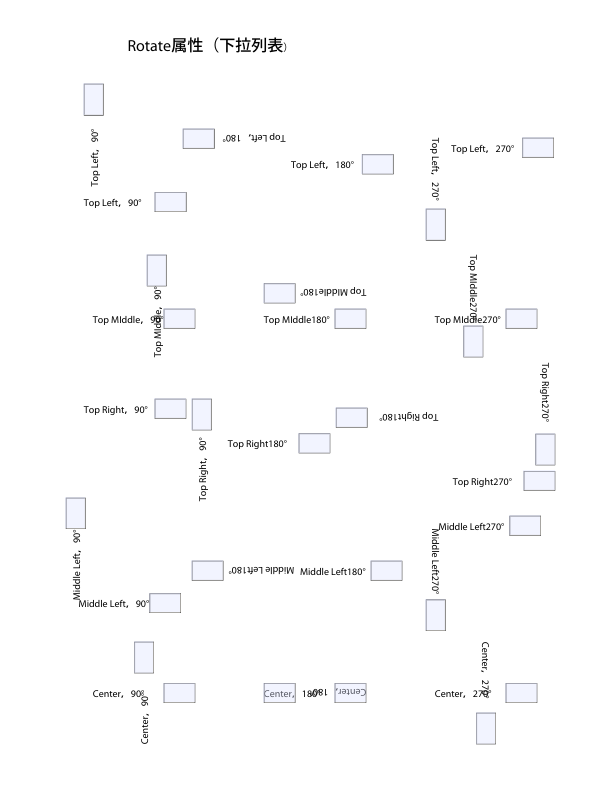
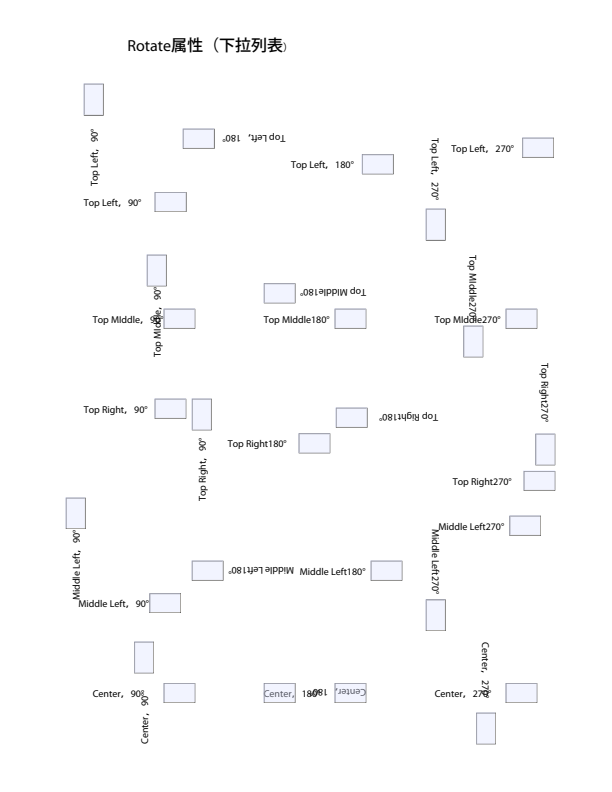
[Skia] Fix the issue that texts are rendered narrower than expected.
When Skia/SkiaPaths is enabled, render a substituted glyph using its
path instead of using CFX_SkiaDeviceDriver when its width defined in
the PDF is narrower than the default glyph width.

This CL also update the expectations of the embedder tests, pixel tests
and corpus tests which are affected by this change.

Bug: pdfium:1752
Commit-Queue: Nigi <nigi@chromium.org>

diff --git a/core/fxge/skia/fx_skia_device.cpp b/core/fxge/skia/fx_skia_device.cpp
@@ -31,6 +31,7 @@
 #include "core/fxge/cfx_graphstatedata.h"
 #include "core/fxge/cfx_path.h"
 #include "core/fxge/cfx_renderdevice.h"
+#include "core/fxge/cfx_substfont.h"
 #include "core/fxge/cfx_textrenderoptions.h"
 #include "core/fxge/dib/cfx_bitmapcomposer.h"
 #include "core/fxge/dib/cfx_dibitmap.h"
@@ -1039,17 +1040,7 @@ class SkiaState {
       skCanvas->drawTextBlob(blob, 0, 0, skPaint);
     } else {
       const SkTDArray<SkPoint>& positions = m_charDetails.GetPositions();
-      const SkTDArray<uint32_t>& widths = m_charDetails.GetFontCharWidths();
       for (int i = 0; i < m_charDetails.Count(); ++i) {
-        uint32_t font_glyph_width =
-            m_pFont ? m_pFont->GetGlyphWidth(glyphs[i]) : 0;
-        uint32_t pdf_glyph_width = widths[i];
-        if (font_glyph_width && pdf_glyph_width &&
-            font_glyph_width > pdf_glyph_width) {
-          font.setScaleX(SkIntToScalar(pdf_glyph_width) / font_glyph_width);
-        } else {
-          font.setScaleX(SkIntToScalar(1));
-        }
         sk_sp<SkTextBlob> blob = SkTextBlob::MakeFromText(
             &glyphs[i], sizeof(glyphs[i]), font, SkTextEncoding::kGlyphID);
         skCanvas->drawTextBlob(blob, positions[i].fX, positions[i].fY, skPaint);
@@ -1723,6 +1714,20 @@ bool CFX_SkiaDeviceDriver::DrawDeviceText(
     float font_size,
     uint32_t color,
     const CFX_TextRenderOptions& options) {
+  // If a glyph's default width is larger than its width defined in the PDF,
+  // draw the glyph with path since it can be scaled to avoid overlapping with
+  // the adjacent glyphs (if there are any). Otherwise, use the device driver
+  // to render the glyph without any adjustments.
+  const CFX_SubstFont* subst_font = pFont->GetSubstFont();
+  const int subst_font_weight =
+      (subst_font && subst_font->m_bFlagMM) ? subst_font->m_Weight : 0;
+  for (const TextCharPos& cp : pCharPos) {
+    const int glyph_width = pFont->GetGlyphWidth(
+        cp.m_GlyphIndex, cp.m_FontCharWidth, subst_font_weight);
+    if (cp.m_FontCharWidth < glyph_width)
+      return false;
+  }
+
   int nChars = fxcrt::CollectionSize<int>(pCharPos);
   if (m_pCache->DrawText(nChars, pCharPos.data(), pFont, mtObject2Device,
                          font_size, color, options)) {
@@ -1843,16 +1848,6 @@ bool CFX_SkiaDeviceDriver::DrawDeviceText(
     }
   } else {
     for (int index = 0; index < nChars; ++index) {
-      const TextCharPos& cp = pCharPos[index];
-      uint32_t font_glyph_width =
-          pFont ? pFont->GetGlyphWidth(cp.m_GlyphIndex) : 0;
-      uint32_t pdf_glyph_width = cp.m_FontCharWidth;
-      if (font_glyph_width && pdf_glyph_width &&
-          font_glyph_width > pdf_glyph_width) {
-        font.setScaleX(SkIntToScalar(pdf_glyph_width) / font_glyph_width);
-      } else {
-        font.setScaleX(SkIntToScalar(1));
-      }
       auto blob =
           SkTextBlob::MakeFromText(&glyphs[index], sizeof(glyphs[index]), font,
                                    SkTextEncoding::kGlyphID);

diff --git a/fpdfsdk/fpdf_annot_embeddertest.cpp b/fpdfsdk/fpdf_annot_embeddertest.cpp
@@ -543,12 +543,10 @@ TEST_F(FPDFAnnotEmbedderTest, ExtractInkMultiple) {
     EXPECT_EQ(681.535034f, rect.top);
   }
   {
-#if defined(_SKIA_SUPPORT_) && BUILDFLAG(IS_APPLE)
+#if defined(_SKIA_SUPPORT_)
     static constexpr char kExpectedHash[] = "fad91b9c968fe8019a774f5e2419b8fc";
-#elif defined(_SKIA_SUPPORT_PATHS_) && BUILDFLAG(IS_APPLE)
+#elif defined(_SKIA_SUPPORT_PATHS_)
     static constexpr char kExpectedHash[] = "acddfe688a117ead56af7b249a2cf8a1";
-#elif defined(_SKIA_SUPPORT_) || defined(_SKIA_SUPPORT_PATHS_)
-    static constexpr char kExpectedHash[] = "1fb0dd8dd5f0b9bb8d076e48eb59296d";
 #elif BUILDFLAG(IS_WIN)
     static constexpr char kExpectedHash[] = "49d0a81c636531a337429325273d0508";
 #else
@@ -770,12 +768,10 @@ TEST_F(FPDFAnnotEmbedderTest, AddAndSaveUnderlineAnnotation) {
   UnloadPage(page);
 
   // Open the saved document.
-#if defined(_SKIA_SUPPORT_) && BUILDFLAG(IS_APPLE)
+#if defined(_SKIA_SUPPORT_)
   static const char kChecksum[] = "899387ae792390cd0d83cf7e2bbebfb5";
-#elif defined(_SKIA_SUPPORT_PATHS_) && BUILDFLAG(IS_APPLE)
+#elif defined(_SKIA_SUPPORT_PATHS_)
   static const char kChecksum[] = "e40e235ee35f47ff28dda009aaaf36df";
-#elif defined(_SKIA_SUPPORT_) || defined(_SKIA_SUPPORT_PATHS_)
-  static const char kChecksum[] = "798fa41303381c9ba6d99092f5cd4d2b";
 #else
   static const char kChecksum[] = "dba153419f67b7c0c0e3d22d3e8910d5";
 #endif
@@ -899,17 +895,12 @@ TEST_F(FPDFAnnotEmbedderTest, GetAndSetQuadPoints) {
 #endif
 TEST_F(FPDFAnnotEmbedderTest, MAYBE_ModifyRectQuadpointsWithAP) {
 #if defined(_SKIA_SUPPORT_) || defined(_SKIA_SUPPORT_PATHS_)
-  static const char kMd5Original[] = "00e70eb543c2a6e8f8aafb4ee951d9bf";
+  static const char kMd5Original[] = "127c2d3b4452555e3317827b0dbbb6a0";
   static const char kMd5ModifiedHighlight[] =
-      "7638c4a8fe4aabbf8704e198f49b3198";
-  static const char kMd5ModifiedSquare[] = "54f507af6af63de877b9cafdab1bbdaa";
+      "6ffe732be6f80540b60921c4803b590a";
+  static const char kMd5ModifiedSquare[] = "9ecbeea7f54abea298b53ce79d301f4a";
 #else
-#if BUILDFLAG(IS_WIN)
-  static const char kMd5Original[] = "0e27376094f11490f74c65f3dc3a42c5";
-  static const char kMd5ModifiedHighlight[] =
-      "66f3caef3a7d488a4fa1ad37fc06310e";
-  static const char kMd5ModifiedSquare[] = "a456dad0bc6801ee2d6408a4394af563";
-#elif BUILDFLAG(IS_APPLE)
+#if BUILDFLAG(IS_APPLE)
   static const char kMd5Original[] = "fc59468d154f397fd298c69f47ef565a";
   static const char kMd5ModifiedHighlight[] =
       "e64bf648f6e9354d1f3eedb47a2c9498";
@@ -919,7 +910,7 @@ TEST_F(FPDFAnnotEmbedderTest, MAYBE_ModifyRectQuadpointsWithAP) {
   static const char kMd5ModifiedHighlight[] =
       "66f3caef3a7d488a4fa1ad37fc06310e";
   static const char kMd5ModifiedSquare[] = "a456dad0bc6801ee2d6408a4394af563";
-#endif
+#endif  // BUILDFLAG(IS_APPLE)
 #endif  // defined(_SKIA_SUPPORT_) || defined(_SKIA_SUPPORT_PATHS_)
 
   // Open a file with four annotations and load its first page.

diff --git a/fpdfsdk/fpdf_edit_embeddertest.cpp b/fpdfsdk/fpdf_edit_embeddertest.cpp
@@ -64,7 +64,7 @@ const char kFirstRemovedChecksum[] = "e1477dc3b5b3b9c560814c4d1135a02b";
 const wchar_t kLoadedFontText[] = L"I am testing my loaded font, WEE.";
 
 #if defined(_SKIA_SUPPORT_) || defined(_SKIA_SUPPORT_PATHS_)
-const char kLoadedFontTextChecksum[] = "fc2334c350cbd0d2ae6076689da09741";
+const char kLoadedFontTextChecksum[] = "d58570cc045dfb818b92cbabbd1a364c";
 #elif BUILDFLAG(IS_APPLE)
 const char kLoadedFontTextChecksum[] = "0f3e4a7d71f9e7eb8a1a0d69403b9848";
 #else
@@ -260,15 +260,7 @@ TEST_F(FPDFEditEmbedderTest, EmbedNotoSansSCFont) {
   FPDFPage_InsertObject(page.get(), text_object);
   EXPECT_TRUE(FPDFPage_GenerateContent(page.get()));
 
-#if defined(_SKIA_SUPPORT_) || defined(_SKIA_SUPPORT_PATHS_)
-#if BUILDFLAG(IS_APPLE)
   const char kChecksum[] = "9a31fb87d1c6d2346bba22d1196041cd";
-#else   // BUILDFLAG(IS_APPLE)
-  const char kChecksum[] = "5bb65e15fc0a685934cd5006dec08a76";
-#endif  // BUILDFLAG(IS_APPLE)
-#else   // defined(_SKIA_SUPPORT_) || defined(_SKIA_SUPPORT_PATHS_)
-  const char kChecksum[] = "9a31fb87d1c6d2346bba22d1196041cd";
-#endif  // defined(_SKIA_SUPPORT_) || defined(_SKIA_SUPPORT_PATHS_)
   ScopedFPDFBitmap page_bitmap = RenderPage(page.get());
   CompareBitmap(page_bitmap.get(), 400, 400, kChecksum);
 
@@ -305,15 +297,7 @@ TEST_F(FPDFEditEmbedderTest, EmbedNotoSansSCFontWithCharcodes) {
   FPDFPage_InsertObject(page.get(), text_object);
   EXPECT_TRUE(FPDFPage_GenerateContent(page.get()));
 
-#if defined(_SKIA_SUPPORT_) || defined(_SKIA_SUPPORT_PATHS_)
-#if BUILDFLAG(IS_APPLE)
   const char kChecksum[] = "9a31fb87d1c6d2346bba22d1196041cd";
-#else   // BUILDFLAG(IS_APPLE)
-  const char kChecksum[] = "5bb65e15fc0a685934cd5006dec08a76";
-#endif  // BUILDFLAG(IS_APPLE)
-#else   // defined(_SKIA_SUPPORT_) || defined(_SKIA_SUPPORT_PATHS_)
-  const char kChecksum[] = "9a31fb87d1c6d2346bba22d1196041cd";
-#endif  // defined(_SKIA_SUPPORT_) || defined(_SKIA_SUPPORT_PATHS_)
   ScopedFPDFBitmap page_bitmap = RenderPage(page.get());
   CompareBitmap(page_bitmap.get(), 400, 400, kChecksum);
 
@@ -3008,7 +2992,7 @@ TEST_F(FPDFEditEmbedderTest, AddTrueTypeFontText) {
   }
   ScopedFPDFBitmap page_bitmap2 = RenderPage(page);
 #if defined(_SKIA_SUPPORT_) || defined(_SKIA_SUPPORT_PATHS_)
-  const char kInsertTrueTypeChecksum[] = "4f9a6c7752ac7d4e4c731260fdb5af15";
+  const char kInsertTrueTypeChecksum[] = "683f4a385a891494100192cb338b11f0";
 #elif BUILDFLAG(IS_APPLE)
   const char kInsertTrueTypeChecksum[] = "c7e2271a7f30e5b919a13ead47cea105";
 #else
@@ -3084,11 +3068,7 @@ TEST_F(FPDFEditEmbedderTest, AddCIDFontText) {
   }
 
   // Check that the text renders properly.
-#if defined(_SKIA_SUPPORT_) || defined(_SKIA_SUPPORT_PATHS_)
-  static constexpr char md5[] = "2e174d17de96a760d42ca3a06acbf36a";
-#else
   static constexpr char md5[] = "84d31d11b76845423a2cfc1879c0fbb9";
-#endif
   {
     ScopedFPDFBitmap page_bitmap = RenderPage(page);
     CompareBitmap(page_bitmap.get(), 612, 792, md5);

diff --git a/core/fpdfapi/render/fpdf_progressive_render_embeddertest.cpp b/core/fpdfapi/render/fpdf_progressive_render_embeddertest.cpp
@@ -384,7 +384,7 @@ TEST_F(FPDFProgressiveRenderEmbedderTest,
 // Normal blend mode.
 #if defined(_SKIA_SUPPORT_) || defined(_SKIA_SUPPORT_PATHS_)
   static constexpr char kContentWithHighlightFillChecksum[] =
-      "fa25846c61d0253e86e8512d3be06ebb";
+      "1ad601278736432e2f82ea37ab6a28ba";
 #else
 #if BUILDFLAG(IS_APPLE)
   static constexpr char kContentWithHighlightFillChecksum[] =
@@ -413,12 +413,12 @@ TEST_F(FPDFProgressiveRenderEmbedderTest,
 #endif
 TEST_F(FPDFProgressiveRenderEmbedderTest,
        MAYBE_RenderHighlightWithColorSchemeAndConvertFillToStroke) {
-// Test rendering of highlight with forced color and converting fill to
-// stroke. The highlight should be rendered as a stroke of the rect.
-//
-// Note: The stroke color rendered for highlight is different from the normal
-// path since highlights have Multiply blend mode, while the other path has
-// Normal blend mode.
+  // Test rendering of highlight with forced color and converting fill to
+  // stroke. The highlight should be rendered as a stroke of the rect.
+  //
+  // Note: The stroke color rendered for highlight is different from the normal
+  // path since highlights have Multiply blend mode, while the other path has
+  // Normal blend mode.
 #if BUILDFLAG(IS_APPLE)
   static constexpr char kMD5ContentWithHighlight[] =
       "8837bea0b3520164b1784e513c882a2d";
@@ -446,13 +446,8 @@ TEST_F(FPDFProgressiveRenderEmbedderTest,
 TEST_F(FPDFProgressiveRenderEmbedderTest, MAYBE_RenderInkWithColorScheme) {
 // Test rendering of multiple ink with forced color scheme on.
 #if defined(_SKIA_SUPPORT_) || defined(_SKIA_SUPPORT_PATHS_)
-#if BUILDFLAG(IS_APPLE)
   static constexpr char kContentWithInkChecksum[] =
       "ebc57721e4c8da34156e09b9b2e62fb0";
-#else
-  static constexpr char kContentWithInkChecksum[] =
-      "b39d9f68ff71963d82c43eb20caa8f4d";
-#endif  // BUILDFLAG(IS_APPLE)
 #else
 #if BUILDFLAG(IS_WIN)
   static constexpr char kContentWithInkChecksum[] =

diff --git a/core/fxge/cfx_font.cpp b/core/fxge/cfx_font.cpp
@@ -410,11 +410,17 @@ void CFX_Font::LoadSubst(const ByteString& face_name,
   }
 }
 
-int CFX_Font::GetGlyphWidth(uint32_t glyph_index) {
+int CFX_Font::GetGlyphWidth(uint32_t glyph_index) const {
+  return GetGlyphWidth(glyph_index, 0, 0);
+}
+
+int CFX_Font::GetGlyphWidth(uint32_t glyph_index,
+                            int dest_width,
+                            int weight) const {
   if (!m_Face)
     return 0;
   if (m_pSubstFont && m_pSubstFont->m_bFlagMM)
-    AdjustMMParams(glyph_index, 0, 0);
+    AdjustMMParams(glyph_index, dest_width, weight);
   int err =
       FT_Load_Glyph(m_Face->GetRec(), glyph_index,
                     FT_LOAD_NO_SCALE | FT_LOAD_IGNORE_GLOBAL_ADVANCE_WIDTH);

diff --git a/core/fxge/cfx_font.h b/core/fxge/cfx_font.h
@@ -104,7 +104,8 @@ class CFX_Font {
       int anti_alias,
       CFX_TextRenderOptions* text_options) const;
   const CFX_Path* LoadGlyphPath(uint32_t glyph_index, int dest_width) const;
-  int GetGlyphWidth(uint32_t glyph_index);
+  int GetGlyphWidth(uint32_t glyph_index) const;
+  int GetGlyphWidth(uint32_t glyph_index, int dest_width, int weight) const;
   int GetAscent() const;
   int GetDescent() const;
   absl::optional<FX_RECT> GetGlyphBBox(uint32_t glyph_index);
